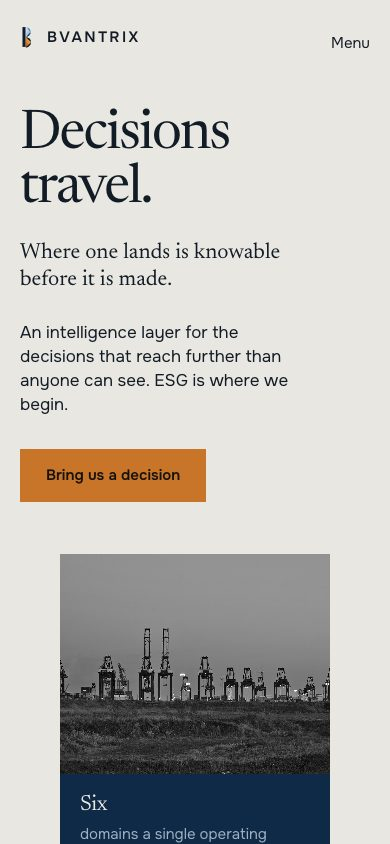
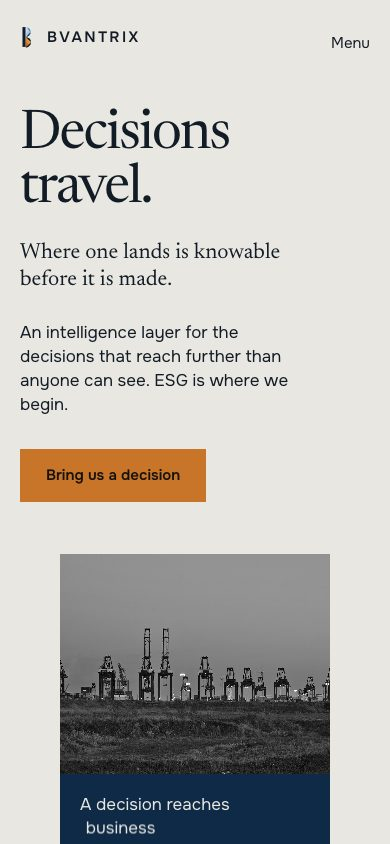
The six domains flow in the masthead instead of being counted
The hero carried a solid block reading "Six" over a sentence naming
what the six were. A number states the idea; the words moving show it.

The block now holds one sentence that finishes differently every two
and a half seconds: a decision reaches business, then people, then
resources, the environment, risk, compliance, each rising into the
line as the last leaves. Pure CSS, so it survives a failed script, and
with motion reduced the first word simply holds the line.

Three things measured rather than assumed. The cycling word sits
inline in the same face and size as the sentence, because a label over
a moving line is an eyebrow over a heading and read as one. A hidden
sizer carries the width of the longest word, so the line never
reflows — one width across the whole cycle. And the hold runs to 15.2%
with the exit at 17%, about 50ms after the next word begins to rise,
because the first timing left the line standing empty for most of a
second between words: 48 empty frames in 120, now 6, and never two
words at once.

The full list stays in the DOM for a screen reader; the cycling is
decoration and is marked as such.

Changed region(s): [[0.2154, 0.9242, 0.7077, 1.0]]

diff --git a/css/style.css b/css/style.css
@@ -294,20 +294,51 @@ p { margin: 0; }
 .tag {
   position: absolute; left: 0; top: 0;
   transform: translateY(-50%);
-  width: min(300px, 78%);
+  width: min(326px, 80%);
   background: var(--field); color: var(--field-ink);
-  padding: 20px 24px 22px;
+  padding: 20px 24px 24px;
 }
-.tag b {
-  display: block;
-  font-family: var(--display); font-weight: 400;
-  font-size: var(--t-lead); line-height: 1;
-  letter-spacing: -0.02em;
+/* One sentence that finishes differently every two and a half seconds.
+   It is a sentence, not a label over a heading: the cycling word sits
+   inline, in the same face and size, so the movement is the only
+   emphasis. A hidden sizer holds the width of the longest word so the
+   line never reflows. */
+.tag-line {
+  margin: 0;
+  font-size: var(--t-body);
+  line-height: 1.34;
+  color: var(--field-ink);
 }
-.tag span {
-  display: block; margin-top: 8px;
-  font-size: var(--t-small); line-height: 1.4;
-  color: var(--field-ink-2);
+
+.cycle {
+  position: relative;
+  display: inline-block;
+  vertical-align: bottom;
+  overflow: hidden;
+  height: 1.34em;
+  margin-left: 0.34em;
+}
+.cycle-size { visibility: hidden; font-style: normal; }
+.cycle > span {
+  position: absolute; left: 0; top: 0;
+  white-space: nowrap;
+  opacity: 0; transform: translateY(0.62em);
+}
+.cycle > span:first-of-type { opacity: 1; transform: none; }
+
+@media (prefers-reduced-motion: no-preference) {
+  .cycle > span { animation: cycleWord 15s cubic-bezier(.16,.84,.3,1) infinite; }
+  .cycle > span:nth-of-type(2) { animation-delay: 2.5s; }
+  .cycle > span:nth-of-type(3) { animation-delay: 5s; }
+  .cycle > span:nth-of-type(4) { animation-delay: 7.5s; }
+  .cycle > span:nth-of-type(5) { animation-delay: 10s; }
+  .cycle > span:nth-of-type(6) { animation-delay: 12.5s; }
+}
+
+@keyframes cycleWord {
+  0%           { opacity: 0; transform: translateY(0.62em); }
+  2%, 15.2%    { opacity: 1; transform: translateY(0); }
+  17%, 100%    { opacity: 0; transform: translateY(-0.5em); }
 }
 
 /* One treatment on every photograph, so the page reads as one system —

diff --git a/index.html b/index.html
@@ -25,7 +25,7 @@
 <link rel="preconnect" href="https://fonts.gstatic.com" crossorigin>
 <link rel="stylesheet" href="https://fonts.googleapis.com/css2?family=Newsreader:opsz,wght@6..72,300;6..72,400;6..72,500&family=Onest:wght@400;500;600&display=swap">
 <link rel="stylesheet" href="assets/scenes/stage.css">
-<link rel="stylesheet" href="css/style.css?v=8.1">
+<link rel="stylesheet" href="css/style.css?v=8.4">
 </head>
 <body>
 
@@ -101,9 +101,20 @@
   <figure class="masthead-plate plate">
     <img src="assets/container-cranes-at-the-mpet-msc-psa.jpg" width="1920" height="1354"
          alt="Container cranes at a deep-water terminal at dusk">
+    <!-- The block the hero composition needs, carrying the six domains as a
+         slow flow rather than a number. The whole list is in the DOM for a
+         screen reader; the cycling is decoration and says so. -->
     <div class="tag">
-      <b>Six</b>
-      <span>domains a single operating decision reaches, and almost no system sees more than one.</span>
+      <p class="tag-line">A decision reaches<!--
+     --><span class="cycle" aria-hidden="true"><!--
+       --><i class="cycle-size">the environment</i><!--
+       --><span>business</span><!--
+       --><span>people</span><!--
+       --><span>resources</span><!--
+       --><span>the environment</span><!--
+       --><span>risk</span><!--
+       --><span>compliance</span><!--
+     --></span><span class="sr-only">business, people, resources, the environment, risk and compliance, and almost no system sees more than one of them.</span></p>
     </div>
   </figure>
 </section>
